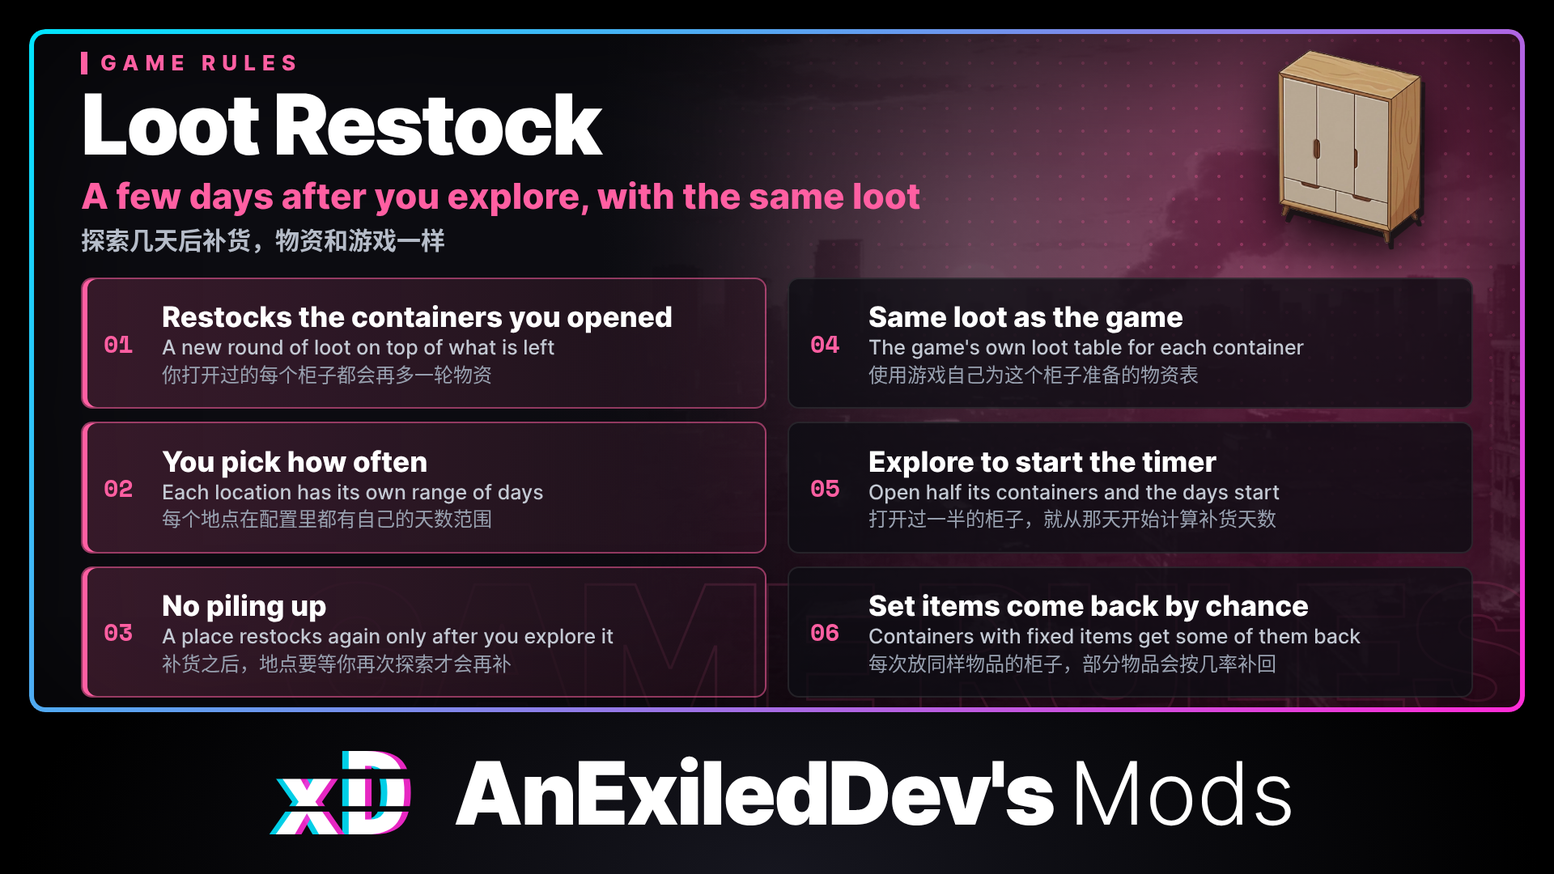
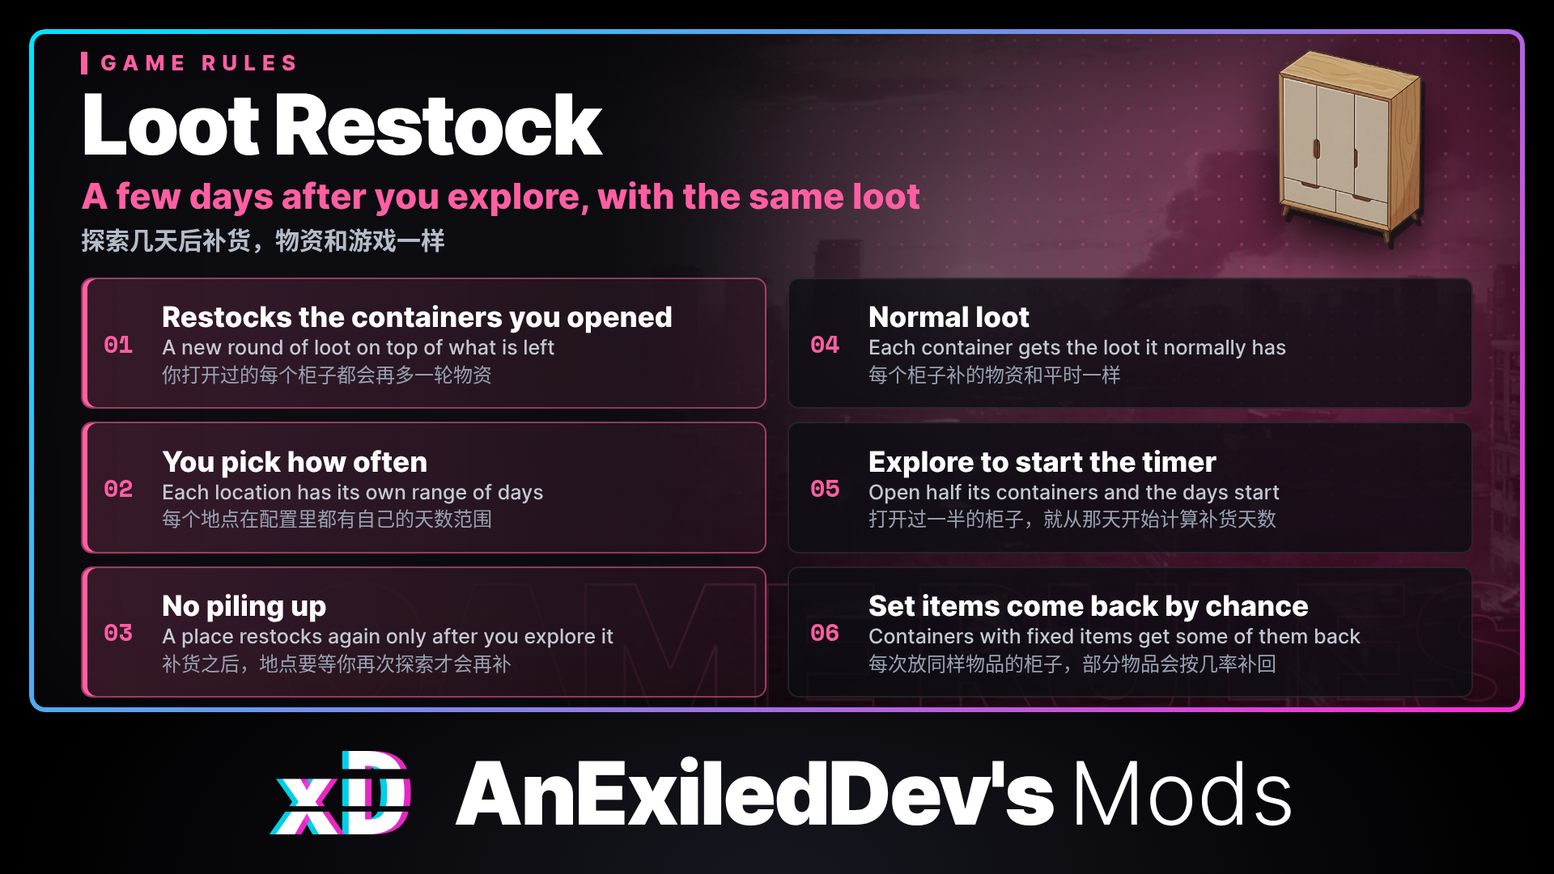
Loot Restock 0.2.4: clearer wording
The settings, the Mod Manager description and the Cheat Menu test buttons read more plainly. The "Restock due today" button is now "Make restock due today".
README, NEXUS, CONFIG and every changelog entry were reworded in plain language, in English and Chinese.

Changed region(s): [[0.5625, 0.3361, 0.8438, 0.4583]]

diff --git a/src/LootRestock/Plugin.cs b/src/LootRestock/Plugin.cs
@@ -15,7 +15,7 @@ namespace LootRestock;
 public sealed class Plugin : BasePlugin
 {
     private const string Guid = "com.dev.survivallog.lootrestock";
-    private const string Version = "0.2.3";
+    private const string Version = "0.2.4";
     private const string ToolkitGuid = "com.dev.survivallog.exiledtoolkit";
 
     /// <summary>Each world may keep its own value of a General setting (Exiled's Toolkit). The day ranges are text, so they stay global.</summary>
@@ -29,25 +29,25 @@ public sealed class Plugin : BasePlugin
             null, WorldRule));
         var share = Config.Bind("General", "ExploredShare", RestockSettings.DefaultShare,
             new ConfigDescription(
-                "How many of a location's containers you must open before it counts as explored and its restock timer starts. 0.5 means half. A location that is not explored again does not restock again, so loot does not pile up in places you skip.\n" +
-                "一个地点要打开多少比例的柜子才算探索过，并开始补货倒计时。0.5 表示一半。没有再次探索的地点不会再次补货，所以你不去的地方不会越堆越多。",
+                "How many of a location's containers you must open before it counts as explored and its restock timer starts. 0.5 means half. After a restock, a location only restocks again once you explore it again, so loot doesn't pile up in places you skip.\n" +
+                "一个地点要打开多少比例的柜子才算探索过，并开始补货倒计时。0.5 表示一半。补货之后，要再次探索这个地点才会再补，所以你不去的地方不会越堆越多。",
                 new AcceptableValueRange<double>(0.05, 1), WorldRule));
         var fixedContainers = Config.Bind("General", "FixedContainerPercent", FixedRefill.DefaultContainerPercent,
             new ConfigDescription(
-                "Some containers always hold the same items, placed there by the game instead of picked at random. Most of the Tech Company is like this. When a location restocks, each of these you opened has this percent chance to get any of its items back. 0 means they never refill.\n" +
-                "有些柜子里的物品是游戏固定摆放的，不是随机生成的，科技公司大多如此。地点补货时，你打开过的这类柜子各有这个百分比的几率重新放回物品。设为 0 则不会补回。",
+                "Some containers always hold the same items, placed there by the game instead of picked at random. Most of the Tech Company is like this. When a location restocks, each of these you opened has this percent chance to get any of its items back. 0 means they never refill, 100 means they always do.\n" +
+                "有些柜子里的物品是游戏固定摆放的，不是随机生成的，科技公司大多如此。地点补货时，你打开过的这类柜子各有这个百分比的几率重新放回物品。设为 0 则不会补回，设为 100 则每次都会补回。",
                 new AcceptableValueRange<int>(0, 100), WorldRule));
         var fixedItems = Config.Bind("General", "FixedItemPercent", FixedRefill.DefaultItemPercent,
             new ConfigDescription(
-                "For a container that gets its fixed items back, the percent chance that each single item comes back, so a refill is often smaller than the first fill. Keys, notes, story items and other one-time items never come back.\n" +
-                "对于重新放回固定物品的柜子，每一件物品回来的百分比几率，所以补回的通常比第一次少。钥匙、笔记、剧情物品等一次性物品不会回来。",
+                "When a container that always holds the same items gets them back at a restock, this is the percent chance each single item comes back, so a refill is often smaller than the first fill. Keys, notes, story items and other one-time items never come back.\n" +
+                "物品固定摆放的柜子在补货时放回物品，每一件物品各有这个百分比的几率回来，所以补回的通常比第一次少。钥匙、笔记、剧情物品等一次性物品不会回来。",
                 new AcceptableValueRange<int>(0, 100), WorldRule));
         var days = Locations.Known.ToDictionary(l => l, l => Config.Bind("Days", l.Key, l.Default.ToString(),
-            $"Days after you explore the {l.English} until its containers restock, picked at random in this range each time. Write it as 3-5, or as one number. A change also applies to a timer already counting.\n" +
-            $"探索{l.Chinese}之后，过多少天柜子会补货，每次在这个范围内随机。写成 3-5，或者只写一个数字。修改也会用于已经在倒计时的地点。"));
+            $"How many days the {l.English} waits after you explore it before its containers restock. Write a range such as 3-5 to get a random number of days from it each time, or write one number. A change also applies to a timer that is already counting.\n" +
+            $"探索{l.Chinese}之后，过多少天柜子会补货。可以写一个范围，比如 3-5，每次在范围内随机取一个天数，也可以只写一个数字。修改也会用于已经在倒计时的地点。"));
         var other = Config.Bind("Days", "OtherLocations", Locations.OtherDefault.ToString(),
-            "Days until a restock for an exploration location that is not listed above, such as one a game update adds. Write it as 3-5, or as one number. A change also applies to a timer already counting.\n" +
-            "上面没有列出的探索地点（比如游戏更新新增的地点）补货需要的天数。写成 3-5，或者只写一个数字。修改也会用于已经在倒计时的地点。");
+            "How many days an exploration location that isn't listed here waits after you explore it before it restocks. This covers any new location a game update adds. Write a range such as 3-5, or one number. A change also applies to a timer that is already counting.\n" +
+            "这里没有列出的探索地点（比如游戏更新新增的地点），探索之后过多少天补货。可以写一个范围，比如 3-5，也可以只写一个数字。修改也会用于已经在倒计时的地点。");
 
         Log.LogInfo($"===== Loot Restock {Version} started");
         RestockHooks.Apply(new PatchKit(new Harmony(Guid), Write), Log);

diff --git a/src/LootRestock/Adapters/DevCheats.cs b/src/LootRestock/Adapters/DevCheats.cs
@@ -44,8 +44,8 @@ public static class DevCheats
         return opened == 0 ? $"{here!.Name}: no opened containers to restock" : $"{here!.Name}: {refilled} of {opened} opened containers got something back";
     }
 
-    [DisplayName("Restock due today\n今天到补货日")]
-    [Description("Makes this location's restock due by today. Leave and come back to test a real restock.\n让这个地点的补货日在今天或之前到期。离开再回来，就能测试真正的补货。")]
+    [DisplayName("Make restock due today\n设为今天补货")]
+    [Description("Moves this location's restock day to today, or as close to today as the save allows. Leave and come back to test a real restock.\n把这个地点的补货日提前到今天，存档太早时提前到最近的一天。离开再回来，就能测试真正的补货。")]
     public static string DueToday()
     {
         if (Where(out var here) is { } problem) return problem;

diff --git a/README.md b/README.md
@@ -1,26 +1,26 @@
 # Loot Restock
 
-The containers you opened at exploration locations restock a few days after you explored them.
+The containers you opened at exploration locations get fresh loot a few days after you explore them, and you set how many days.
 
-In Survival Log, each location is stocked once, and survival point cards add to it later. Once you have searched a place, it stays empty. Loot Restock brings fresh loot back to the places you keep exploring.
+In Survival Log, each location is stocked once, and survival point cards add more loot later. Once you have searched a place, it stays empty. Loot Restock brings fresh loot back to the places you keep exploring.
 
 ## Features
 
 - **Restocks the containers you opened**: when a location restocks, every container you opened since the last restock gets a new round of loot, on top of anything still inside. Containers you never opened are left alone.
-- **Explore to start the timer**: a location counts as explored once you have opened half its containers. Its timer starts on the day you explored it.
+- **Explore to start the timer**: a location counts as explored once you have opened half its containers, and you can change how many that takes. Its timer starts on the day you explored it.
 - **You pick how often**: each location has its own range of days in the config, so restocks come as fast or as slow as you want. Set a range such as 3-5, or one number such as 2.
 - **No piling up**: after a restock, a location waits until you explore it again. A place you skip or barely search never restocks twice.
-- **Same loot as the game**: a restock uses the same loot table the game uses for that container and your character, at the location's current discovery level from survival point cards.
-- **Set items come back by chance**: containers the game fills with the same items every time (most of the Tech Company) get them back, but only some containers, and only some of their items. Both chances are in the config. A container that has both set items and a random loot table gets only a round of random loot. Keys, notes, story items and other one-time items never come back. A container that gets nothing back stays searched, and it does not count when you explore the location again.
-- **Test buttons**: with Cheat Menu installed, its Mod tests tab shows this location's restock state, lists every location, restocks this one right away, makes its restock due today, or resets every timer.
+- **Same loot as the game**: a restock rolls from the same loot table the game uses for that container and your character, at the location's current discovery level from survival point cards.
+- **Set items come back by chance**: some containers hold the same items every time, like most of the Tech Company. They get their items back by chance, and you set both the chance a container refills and the chance each item comes back. A container with both set items and random loot gets only random loot. Keys, notes, story items and other one-time items never come back. A container that gets nothing back stays searched, and it doesn't count toward exploring the location again.
+- **Test buttons**: with Cheat Menu installed, its Mod tests tab has buttons to show where this location's timer stands, list every location, restock this location right away, make its restock due today, or reset every timer.
 
-Restocks happen when you arrive at a location or move between its floors, not overnight. Restocked containers show as unsearched again. Only the post-disaster exploration locations restock: Hardware Store, Deserted Supermarket, Abandoned School, Abandoned Hospital and Tech Company. Your home, camps and pre-disaster locations are not affected.
+A location restocks when you arrive there or move between its floors. Restocked containers show as unsearched again. Only the post-disaster exploration locations restock: Hardware Store, Deserted Supermarket, Abandoned School, Abandoned Hospital and Tech Company. Your home, camps and pre-disaster locations are not affected.
 
-Loot Restock keeps a few numbers in your save (for each location: when its timer started, your last visit, its last restock, and how many containers that restock left empty). It does not edit game files. You can remove it at any time; loot it already added stays.
+Loot Restock keeps a few numbers in your save (for each location: when its timer started, your last visit, its last restock, and how many containers that restock left empty). It does not edit game files. You can remove it at any time, and any loot it already added stays.
 
 ## Requirements
 
-- Survival Log 1.1.20719. Built for this version; a game update can break it until the mod is updated.
+- Survival Log 1.1.20719. A game update can break it until the mod is updated.
 - The [BepInEx Pack for Survival Log](https://www.nexusmods.com/survivallog/mods/12), the BepInEx 6 (IL2CPP) build for the game.
 - [Exiled's Toolkit](https://github.com/AnExiledDev/SurvivalLog-ExiledToolkit) 0.19.0 or newer. Loot Restock does not load without it. It applies settings changed on the Mod Manager's Mods screen without restarting the game, and lets each world keep its own General settings.
 - Optional: [Mod Manager](https://www.nexusmods.com/survivallog/mods/73). With it, you can change every setting in game on its Mods screen and see what each one does, without opening the config file.
@@ -35,17 +35,17 @@ Loot Restock keeps a few numbers in your save (for each location: when its timer
 
 ## Uninstall
 
-Delete `LootRestock.dll` from the `BepInEx\plugins` folder. For a clean slate, also delete `BepInEx\config\com.dev.survivallog.lootrestock.cfg`.
+Delete `LootRestock.dll` from the `BepInEx\plugins` folder. To remove its settings too, also delete `BepInEx\config\com.dev.survivallog.lootrestock.cfg`.
 
 ## Configuration
 
-Settings live in `BepInEx\config\com.dev.survivallog.lootrestock.cfg`, created the first time the game starts with the mod. Change them in game on the Mod Manager's Mods screen, or edit the file while the game is closed. See [CONFIG.md](CONFIG.md) for every setting. Each world can keep its own General settings: pick them for a new world in Customizable Difficulty, or, while you play, change them for that world alone on the Mods screen.
+Settings live in `BepInEx\config\com.dev.survivallog.lootrestock.cfg`, created the first time the game starts with the mod. Change them in game on the Mod Manager's Mods screen, or edit the file while the game is closed. See [CONFIG.md](CONFIG.md) for every setting. Each world can keep its own General settings. Pick them for a new world in Customizable Difficulty, or change them on the Mods screen while you play, and only that world changes.
 
 ## Troubleshooting
 
 Built against BepInEx `6.0.0-be.788`.
 
-Check `BepInEx\LogOutput.log` for `===== Loot Restock 0.2.3 started`, followed by `hooked the location loot refresh` and `hooked the save load`. A line starting with `could not hook` means the mod does not work on this game version, and locations work as in the unmodded game. The `settings:` line shows the settings the mod read, at start and after each change. When a save loads, the log lists every post-disaster location: how many of its containers are opened, its restock day or how many you still need to open to start its timer, and when it last restocked. A location you have never visited shows as not visited yet. Each time you arrive at one, it gets a line of its own.
+Check `BepInEx\LogOutput.log` for `===== Loot Restock 0.2.4 started`, followed by `hooked the location loot refresh` and `hooked the save load`. A line starting with `could not hook` means part of the mod doesn't work on this game version, and the line says what stops working. The `settings:` line shows the settings the mod read, at start and after each change. When a save loads, the log lists every post-disaster location: how many of its containers are opened, its restock day or how many more you need to open to start its timer, and when it last restocked. A location you have never visited shows as `not visited yet`. Each time you arrive at a location, the log adds a line for it.
 
 ## Known issues
 
@@ -55,7 +55,7 @@ Check `BepInEx\LogOutput.log` for `===== Loot Restock 0.2.3 started`, followed b
 
 Found a bug, have an idea, or something feels off? Come say so on the Core Directive Discord: https://discord.gg/trTsyxUFqg . You can also post in the Posts tab of the mod's Nexus Mods page. When reporting a bug, attach `BepInEx\LogOutput.log`.
 
-To reach me directly, message `exiled.dev` on Discord; you can find me in the [official Survival Log Discord](https://discord.gg/MZGg4gQAUe). I'm also on X as [@AnExiledDev](https://x.com/AnExiledDev).
+To reach me directly, message `exiled.dev` on Discord. You can find me in the [official Survival Log Discord](https://discord.gg/MZGg4gQAUe). I'm also on X as [@AnExiledDev](https://x.com/AnExiledDev).
 
 A Survival Log wiki with detailed documentation for all of my mods is coming soon.
 

diff --git a/CHANGELOG.md b/CHANGELOG.md
@@ -1,8 +1,13 @@
 # Changelog
 
+## 0.2.4
+
+- Clearer wording in the settings, the Mod Manager description and the Cheat Menu test buttons. The "Restock due today" button is now called "Make restock due today".
+- Made for Survival Log 1.1.20719.
+
 ## 0.2.3
 
-- A container that has both set items and a random loot table now gets only a round of random loot at a restock. Before, it also rolled for its set items.
+- A container with both set items and random loot now gets only random loot at a restock. Before, it could also get its set items back.
 - Made for Survival Log 1.1.20719.
 
 ## 0.2.2
@@ -12,36 +17,36 @@
 
 ## 0.2.1
 
-- Now uses Exiled's Toolkit for its shared parts, so it needs Exiled's Toolkit 0.19.0 or newer.
+- Now uses shared code from Exiled's Toolkit, so it needs Exiled's Toolkit 0.19.0 or newer.
 - Made for Survival Log 1.1.20719.
 
 ## 0.2.0
 
-- Each world can keep its own Enabled, ExploredShare, FixedContainerPercent and FixedItemPercent. With Exiled's Toolkit 0.17.0 or newer, pick them for a new world in Customizable Difficulty, or change them for the world you are playing on the Mod Manager's Mods screen. The day ranges stay the same for every world.
+- Each world can keep its own `Enabled`, `ExploredShare`, `FixedContainerPercent` and `FixedItemPercent` settings. With Exiled's Toolkit 0.17.0 or newer, you can pick them for a new world in Customizable Difficulty, or change them for the world you're playing on the Mod Manager's Mods screen. The Days settings are the same for every world.
 - Made for Survival Log 1.1.20151.
 
 ## 0.1.7
 
-- Fixed: the old recorder in the Abandoned Hospital could come back at a restock. Items with no price, which are one of a kind, never come back now.
+- Fixed: the old recorder in the Abandoned Hospital could come back at a restock. Items with no price are one-of-a-kind finds like the recorder, and they never come back now.
 - Fixed: containers that got nothing back at a restock counted toward exploring the location again, so a barely searched Tech Company could restock twice. Only the containers that can refill count now, and a location where nothing refilled never restarts its timer.
-- A container that has both set items and a random loot table gets a round of random loot and its set items by chance.
-- The location list in the log shows the day an explored location's timer counts from and its restock day, and how many containers got nothing back at the last restock.
-- Only the map layout rows the game itself uses for a location are read, so a game update that reuses a furniture number elsewhere cannot give a container the wrong items.
+- A container with both set items and random loot gets a round of random loot, and its set items come back by chance.
+- The location list in the log shows the day each explored location's timer started, its restock day, and how many containers got nothing back at the last restock.
+- A container only gets back the set items the game placed in it at that location, so a game update can't mix in items from somewhere else.
 
 ## 0.1.6
 
-- Fixed: containers the game fills with set items instead of random loot never restocked, so the Tech Company, which has almost only these, never restocked at all. They now get their items back, minus keys, notes, story items and other one-time items.
-- Two new settings, `FixedContainerPercent` and `FixedItemPercent` (both 70 by default): the chance each such container gets anything back, and the chance each single item in it comes back. A refill is often smaller than the first fill, and some containers stay empty.
+- Fixed: containers that always hold the same items never restocked, so the Tech Company, where almost every container is like that, never restocked at all. They now get their items back, except keys, notes, story items and other one-time items.
+- New settings `FixedContainerPercent` and `FixedItemPercent` (both 70 by default) set the chance a container with set items gets anything back, and the chance each single item in it comes back. A refill is often smaller than the first fill, and some containers stay empty.
 - A container that gets nothing back at a restock stays searched.
-- The location list in the log says when a location is explored and its timer starts on the next visit, instead of asking you to open containers you already opened.
+- The location list in the log now says when a location is explored and its timer will start on your next visit. Before, it asked you to open containers you had already opened.
 
 ## 0.1.5
 
-- Fixed: the location list in the log showed 0 of 0 containers for every location you weren't at. It now reads them from the save, and a location you have never visited says so.
+- Fixed: the location list in the log showed 0 of 0 containers for every location you weren't at. It now reads the counts from the save, and a location you have never visited shows as not visited yet.
 
 ## 0.1.4
 
-- When a save loads, `BepInEx\LogOutput.log` lists every post-disaster location, even ones you are far from: containers opened, the restock day, and the day it last restocked.
+- When a save loads, `BepInEx\LogOutput.log` lists every post-disaster location, even the ones you aren't at, with how many containers are opened, the restock day and the day it last restocked.
 - The log shows the settings in use when the game starts and after each change.
 - With Cheat Menu installed, a new Mod tests button shows the same list in game.
 
@@ -56,11 +61,11 @@
 
 ## 0.1.1
 
-- With Cheat Menu installed, its Mod tests tab has Loot Restock buttons: show this location's restock state, restock here now, make the restock due today, and reset all timers.
+- With Cheat Menu installed, its Mod tests tab has Loot Restock buttons to show where this location's timer stands, restock it right away, make its restock due today and reset every timer.
 
 ## 0.1.0
 
 - First release.
 - The post-disaster exploration locations restock the containers you opened, a few days after you explored them.
-- A location counts as explored once you have opened half its containers. It restocks only once per exploration, so loot never piles up in places you skip.
+- A location counts as explored once you have opened half its containers, and you can change how many that takes. It restocks only once each time you explore it, so loot never piles up in places you skip.
 - Each location has its own range of days in the config, so restocks come as often or as rarely as you like.

diff --git a/CONFIG.md b/CONFIG.md
@@ -9,11 +9,11 @@ Settings live in `BepInEx\config\com.dev.survivallog.lootrestock.cfg`, created t
 | `Enabled` | `true` | When `true`, exploration locations restock the containers you opened, a few days after you explored them. When `false`, nothing restocks. |
 | `ExploredShare` | `0.5` | How many of a location's containers you must open before it counts as explored and its restock timer starts. `0.5` means half, `1` means all of them. Any value from `0.05` to `1`. |
 | `FixedContainerPercent` | `70` | Some containers always hold the same items, placed by the game instead of picked at random. Most of the Tech Company is like this. When a location restocks, each of these you opened has this percent chance to get any of its items back. `0` means they never refill, `100` means all of them do. Any value from `0` to `100`. |
-| `FixedItemPercent` | `70` | For a container that gets its items back, the percent chance that each single item comes back, so a refill is often smaller than the first fill. Keys, notes, story items and other one-time items never come back. Any value from `0` to `100`. |
+| `FixedItemPercent` | `70` | When a container that always holds the same items gets them back at a restock, this is the percent chance each single item comes back, so a refill is often smaller than the first fill. Keys, notes, story items and other one-time items never come back. Any value from `0` to `100`. |
 
 ## Days
 
-Each setting is the number of days after you explore a location until its containers restock. Write a range such as `3-5`, or one number such as `4`. A new number in the range is picked each time. Any value from `1` to `365`. A value the mod cannot read falls back to the default, with a line in `BepInEx\LogOutput.log`.
+Each setting is how many days a location waits after you explore it before its containers restock. Write a range such as `3-5` to get a random number of days from it each time, or one number such as `4`. Any value from `1` to `365`. A value the mod cannot read falls back to the default, with a line in `BepInEx\LogOutput.log`.
 
 | Setting | Default | Location |
 | --- | --- | --- |
